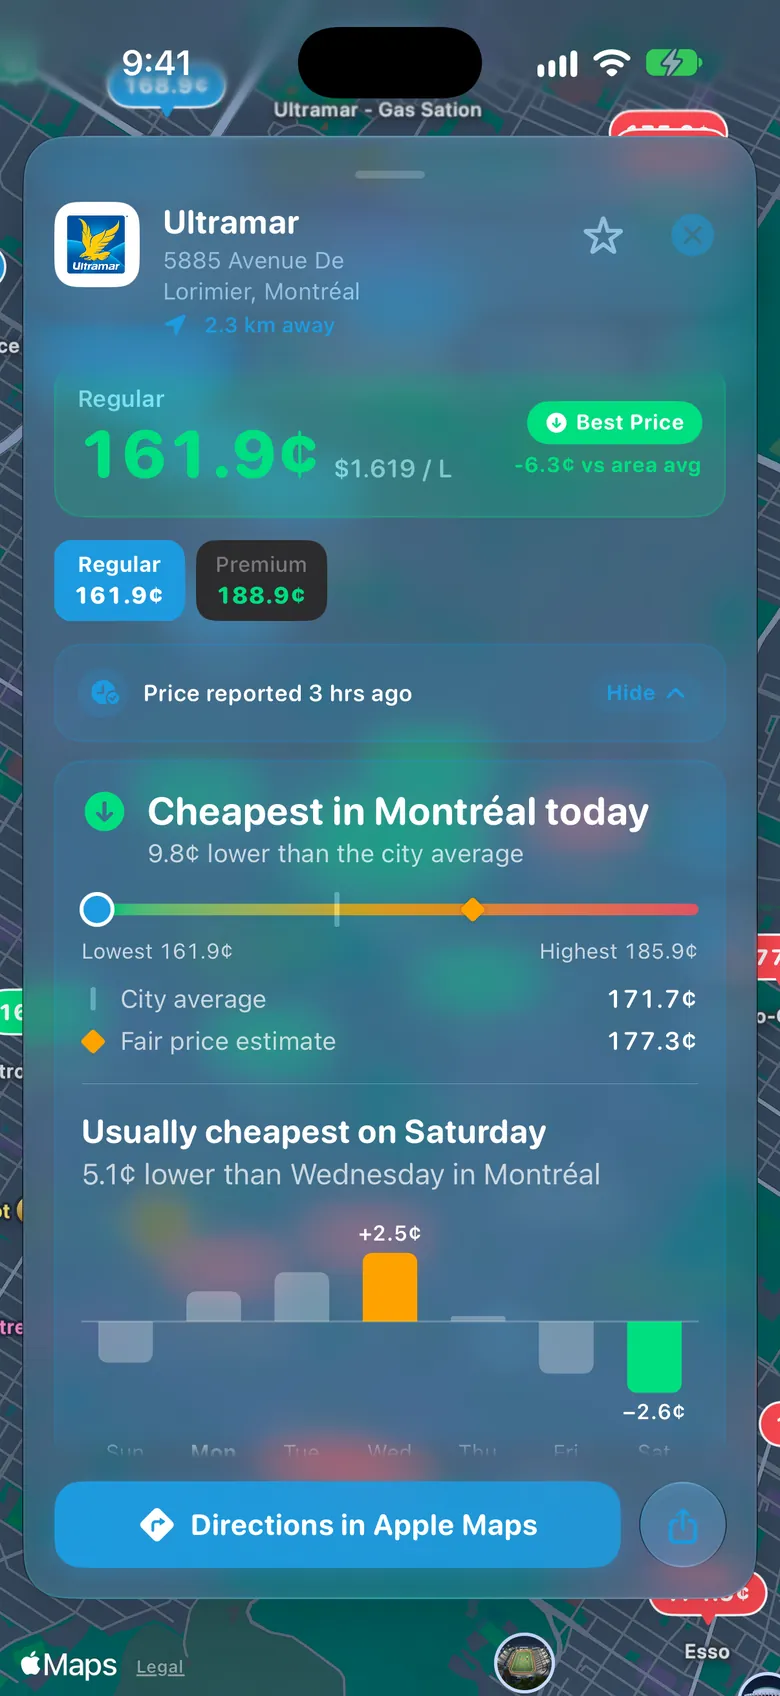
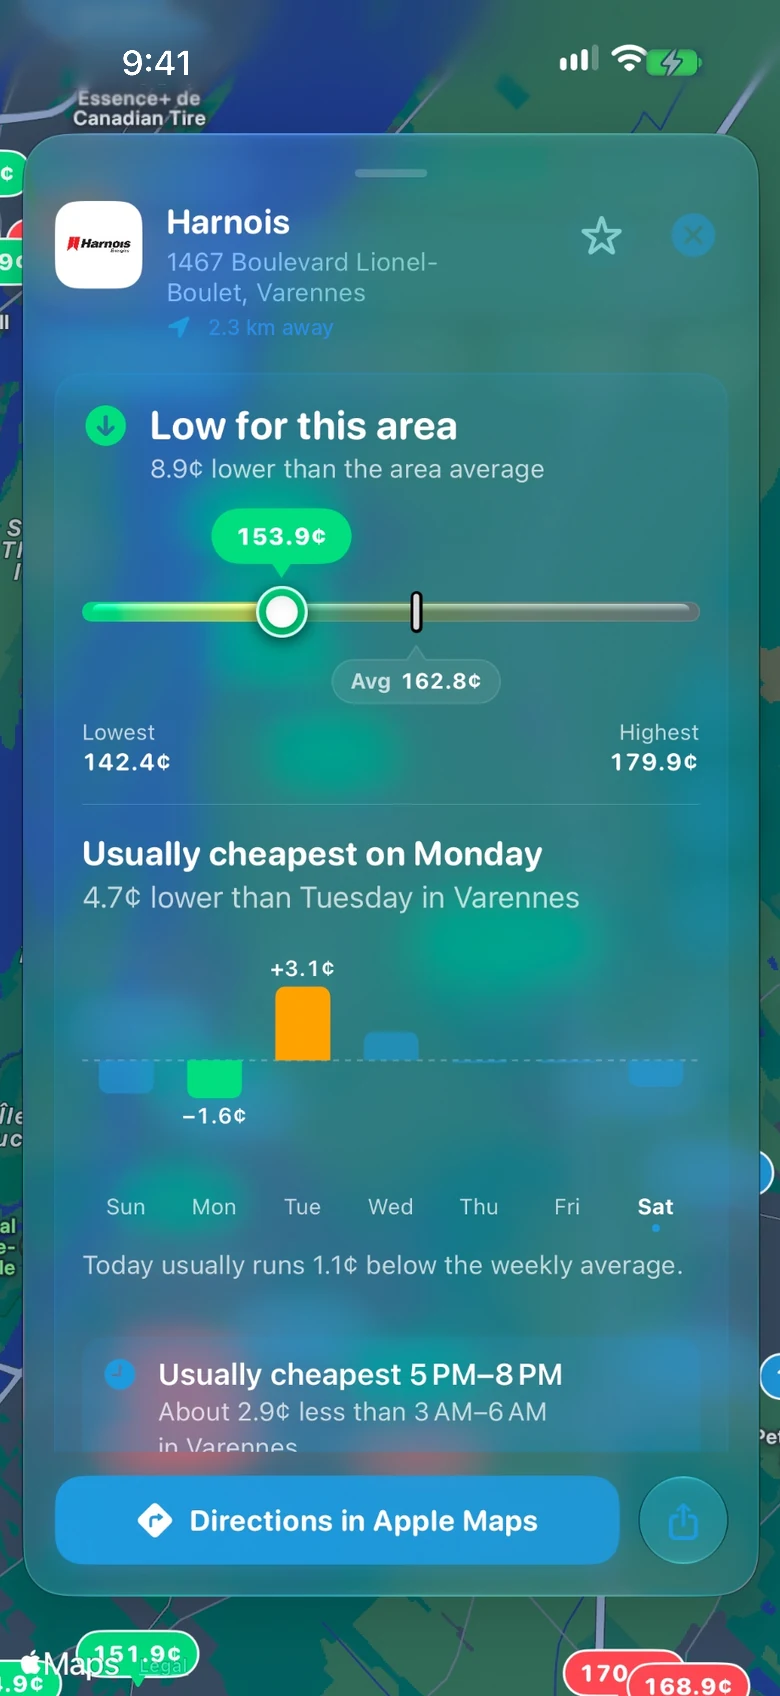
New English station screenshot
The Harnois station card with a clean 9:41 status bar, matching the French
one. Its callout points at the price on the slider.

Claude-Session: https://claude.ai/code/session_01BDfAcd5VxX4k3G3F98kDiP

diff --git a/assets/js/home.js b/assets/js/home.js
@@ -9,7 +9,7 @@
   G.mode=S.MOTION?'anim':'static';G.dive=0;G.end=0;G.dim=0;G.hide=0;G.go=!S.MOTION;
   var BRANDS=['Petro-Canada','Shell','Ultramar','Esso','Costco','Couche-Tard','Harnois','Irving','Crevier','Sonic','Canadian Tire','Eko'];
   /* Where each callout points on the real screenshot, in % of the screen. */
-  var AN=[[40,34],[57,48.6],[20,65],[22,79]];
+  var AN=[[40,34],[36,36],[20,65],[22,79]];
   /* Screenshots that differ between languages override their callout here. */
   var AN_L={fr:{1:[28,35]}};
   var PRICES=[161.9,188.9,177.4];
